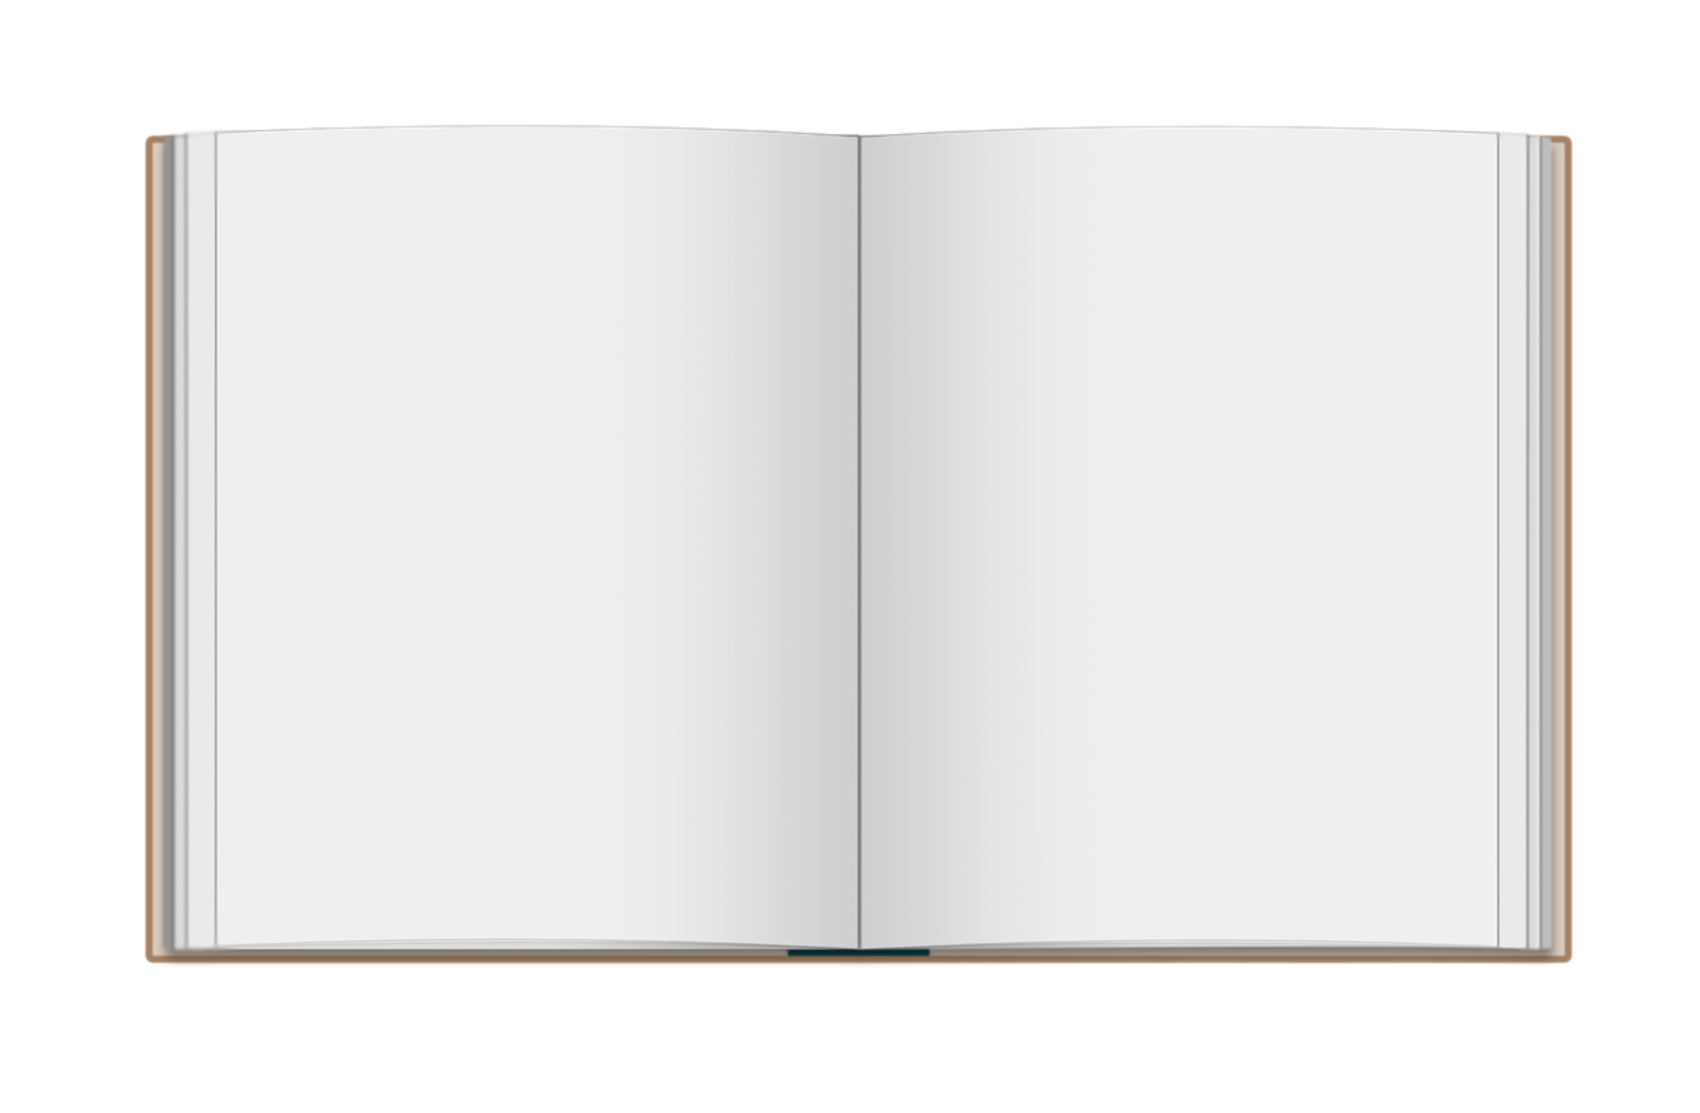
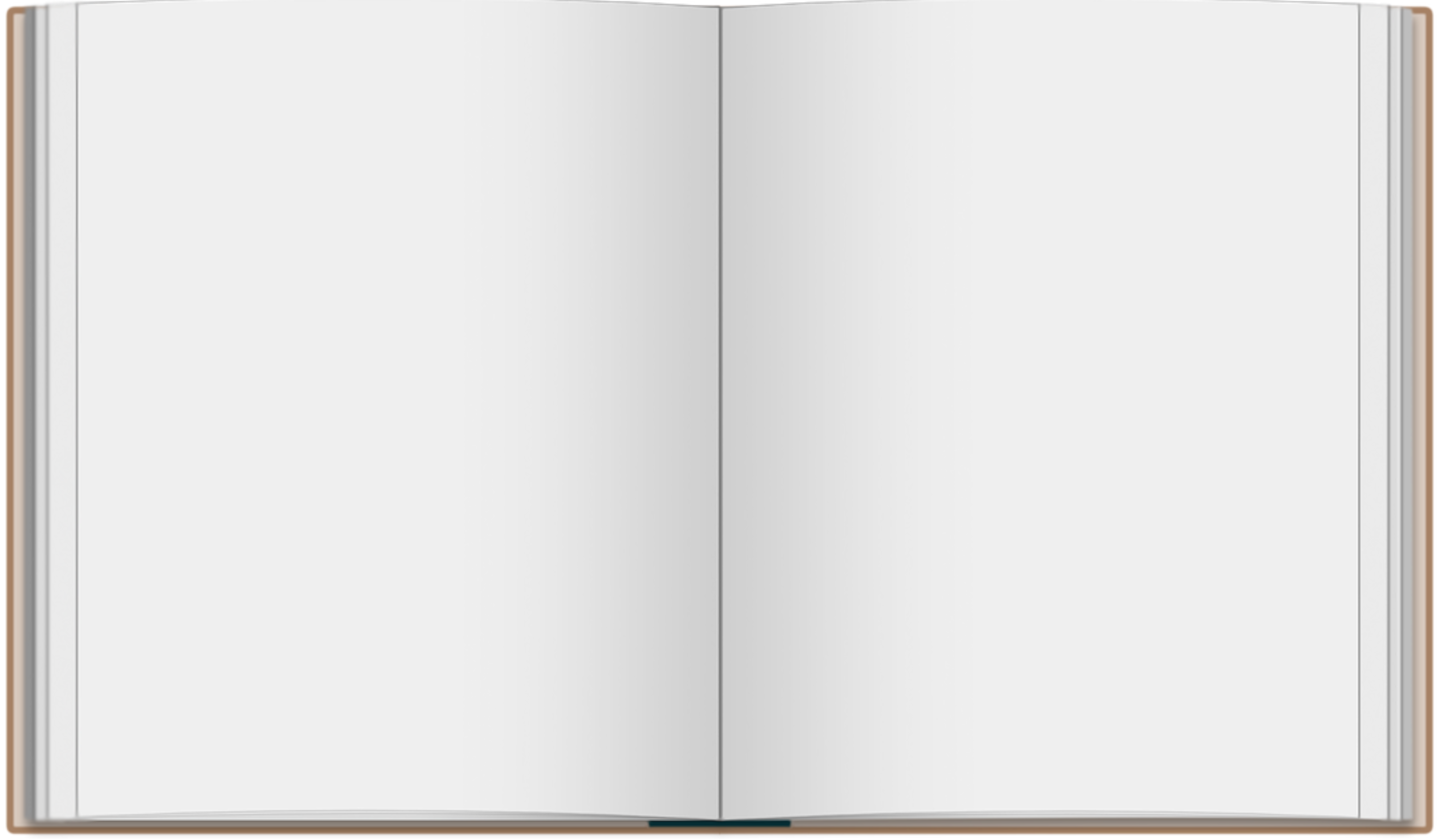
fixes background image and backhome link

Changed region(s): [[0.0, 0.0, 1.0, 1.0]]

diff --git a/Categoria-medio/style-pageIntermediate.css b/Categoria-medio/style-pageIntermediate.css
@@ -9,36 +9,35 @@ body {
   overflow-x: hidden;
 }
 
-/* back home button */
+/* back home heading */
 .back-home {
-  position: fixed;
-  left: 18px;
-  top: 0px;
-  background: transparent;
+  width: 275px;
+  background-color: #fff;
   padding: 10px 14px;
   border-radius: 8px;
   font-weight: bold;
   text-decoration: none;
   transition: color 0.3s ease;
-  z-index: 1000;
+  margin-left: 10px;
 }
 
-.back-home:hover { 
-  background: transparent;
-  background: rgba(255, 255, 255, 0.4);
- }
+/* back home link */
+.back-home a {
+ color:#504f1b;
+}
 
 /* Container for the open-book layout */
 .book-scene {
   background-image: url('/Assets/vector-libroAbierto-2.png'); /* Use your book image */
+  background-position: center;
+  background-repeat: no-repeat;
   position: relative;
-  width: 1700px;
-  height: 1113px;
-  margin: -50px auto;
+  height: 839px;
   display: flex;
   justify-content: center;
   align-items: center;
 }
+
 
 /* PNG open-book image */
 .book-bg {
@@ -50,7 +49,7 @@ body {
 /* Left and right pages positioned over the PNG */
 .page {
   position: absolute;
-  top: 15%;
+  top: 5%;
   width: 42%;
   display: flex;
   flex-direction: column;
@@ -60,13 +59,13 @@ body {
 
 /* Adjust placement for each page */
 .left-page {
-  left: 15%;
+  left: 19%;
   width: 550px;
 
 }
 
 .right-page {
-  right: 14%;
+  right: 19%;
   width: 550px;
 }
 

diff --git a/Categoria-experto/style-pageExpert.css b/Categoria-experto/style-pageExpert.css
@@ -9,32 +9,30 @@ body {
   overflow-x: hidden;
 }
 
-/* back home button */
+/* back home heading */
 .back-home {
-  position: fixed;
-  left: 18px;
-  top: 18px;
-  background: transparent;
+  width: 275px;
+  background-color: #fff;
   padding: 10px 14px;
   border-radius: 8px;
   font-weight: bold;
   text-decoration: none;
   transition: color 0.3s ease;
-  z-index: 1000;
+  margin-left: 10px;
 }
 
-.back-home:hover { 
-  background: transparent;
-  background: rgba(255, 255, 255, 0.4);
- }
+/* back home link */
+.back-home a {
+ color:#504f1b;
+}
 
 /* Container for the open-book layout */
 .book-scene {
   background-image: url('/Assets/vector-libroAbierto-2.png'); /* Use your book image */
+  background-position: center;
+  background-repeat: no-repeat;
   position: relative;
-  width: 1700px;
-  height: 1113px;
-  margin: -50px auto;
+  height: 839px;
   display: flex;
   justify-content: center;
   align-items: center;
@@ -50,7 +48,7 @@ body {
 /* Left and right pages positioned over the PNG */
 .page {
   position: absolute;
-  top: 15%;
+  top: 5%;
   width: 42%;
   display: flex;
   flex-direction: column;
@@ -60,13 +58,13 @@ body {
 
 /* Adjust placement for each page */
 .left-page {
-  left: 15%;
+  left: 19%;
   width: 550px;
 
 }
 
 .right-page {
-  right: 14%;
+  right: 19%;
   width: 550px;
 }
 

diff --git a/Categoria-facil/style-pageBeginner.css b/Categoria-facil/style-pageBeginner.css
@@ -9,32 +9,30 @@ body {
   overflow-x: hidden;
 }
 
-/* back home button */
+/* back home heading */
 .back-home {
-  position: fixed;
-  left: 18px;
-  top: 18px;
-  background: transparent;
+  width: 275px;
+  background-color: #fff;
   padding: 10px 14px;
   border-radius: 8px;
   font-weight: bold;
   text-decoration: none;
   transition: color 0.3s ease;
-  z-index: 1000;
+  margin-left: 10px;
 }
 
-.back-home:hover { 
-  background: transparent;
-  background: rgba(255, 255, 255, 0.4);
- }
+/* back home link */
+.back-home a {
+ color:#504f1b;
+}
 
 /* Container for the open-book layout */
 .book-scene {
   background-image: url('/Assets/vector-libroAbierto-2.png'); /* Use your book image */
+  background-position: center;
+  background-repeat: no-repeat;
   position: relative;
-  width: 1700px;
-  height: 1113px;
-  margin: -50px auto;
+  height: 839px;
   display: flex;
   justify-content: center;
   align-items: center;
@@ -50,7 +48,7 @@ body {
 /* Left and right pages positioned over the PNG */
 .page {
   position: absolute;
-  top: 15%;
+  top: 5%;
   width: 42%;
   display: flex;
   flex-direction: column;
@@ -60,13 +58,13 @@ body {
 
 /* Adjust placement for each page */
 .left-page {
-  left: 15%;
+  left: 19%;
   width: 550px;
 
 }
 
 .right-page {
-  right: 14%;
+  right: 19%;
   width: 550px;
 }
 

diff --git a/Categoria-facil/pageBeginner.html b/Categoria-facil/pageBeginner.html
@@ -8,7 +8,9 @@
 </head>
 <body>
   <!--navigation to inicio-->
-  <h1 class="back-home"><a href="../Pagina-inicio/index.html">← Volver al Inicio</a></h1>
+  <h1 class="back-home"> <!--parent-->
+    <a href="../Pagina-inicio/index.html">← Volver al Inicio</a> <!--child-->
+  </h1>
  
   <div class="book-scene">
      <!--openbook image-->
